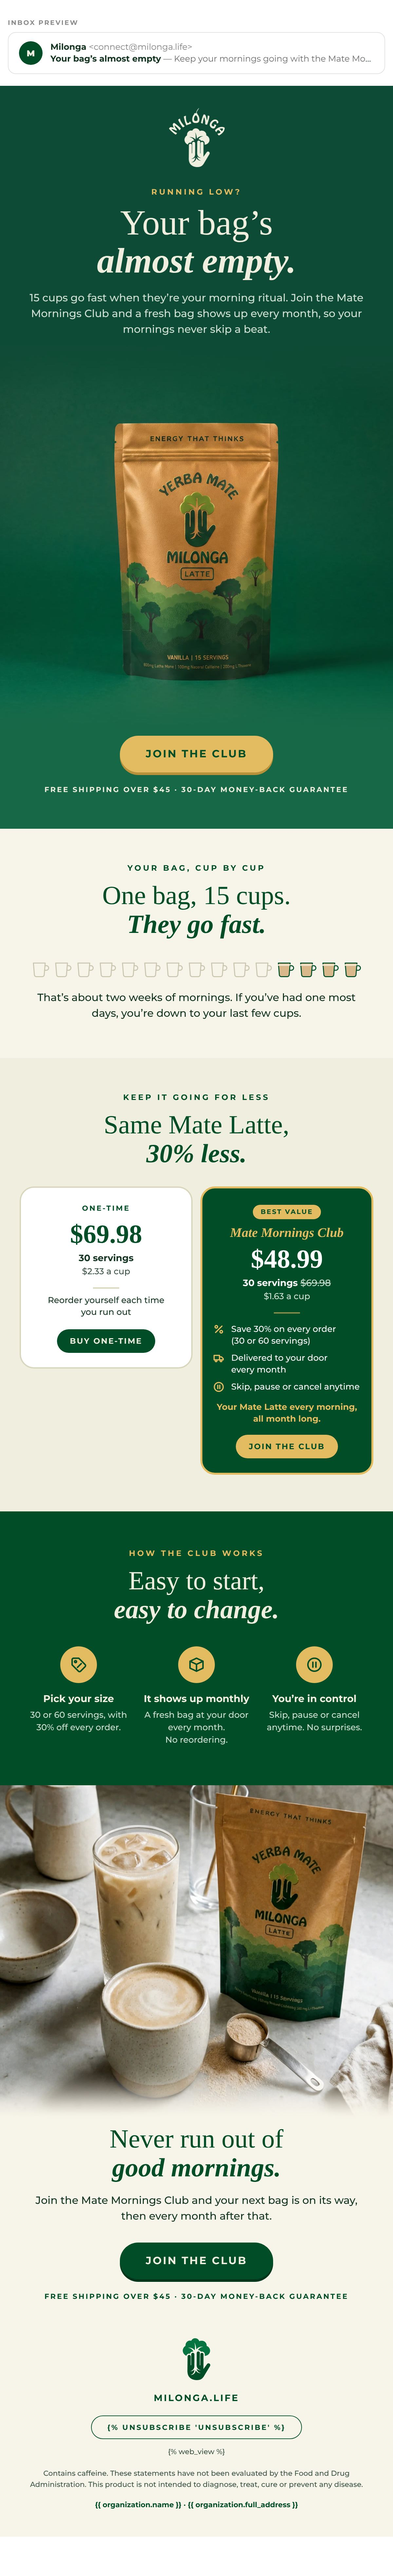
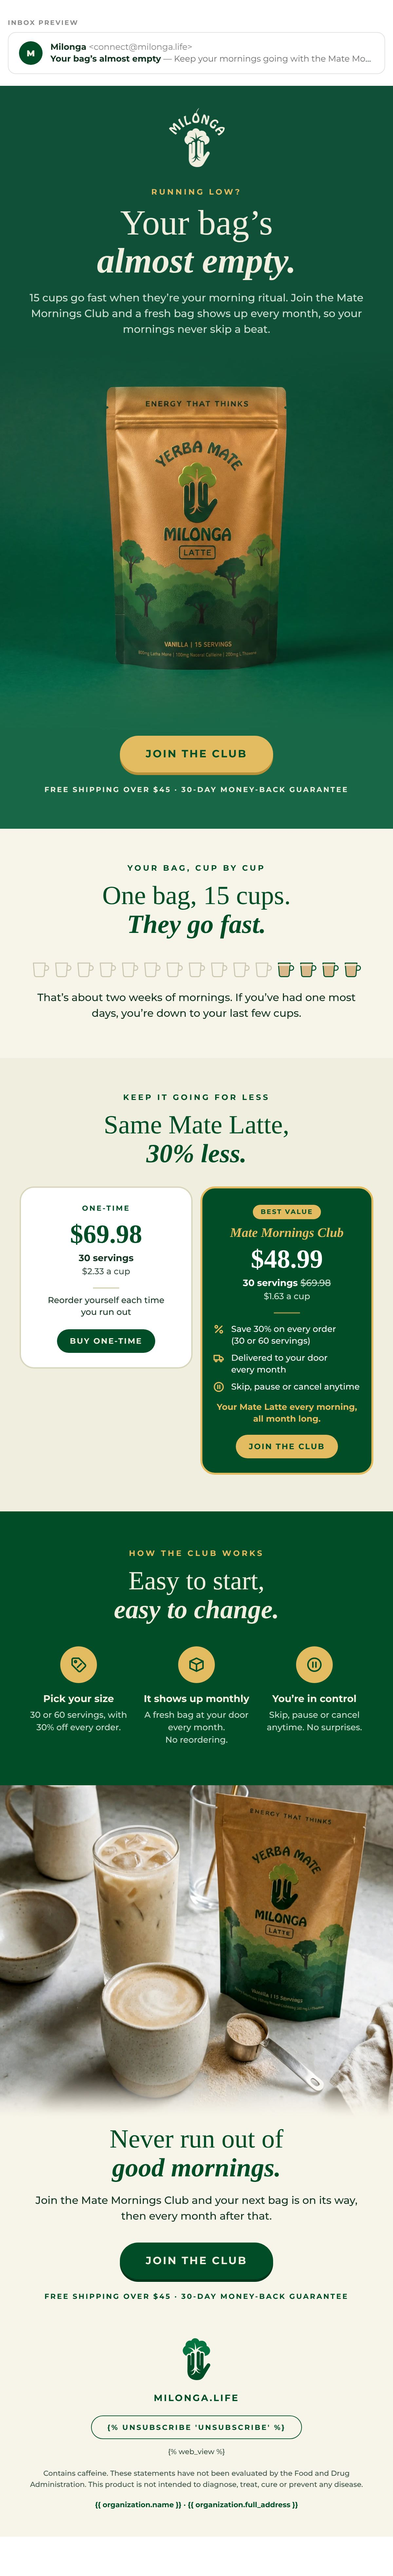
Post-purchase E3: hosted images, paste-ready HTML, renders, README
Claude-Session: https://claude.ai/code/session_01NhEtXPnfeCJfN73SqBkUZ5

Changed region(s): [[0.2467, 0.1246, 0.8017, 0.2804]]

diff --git a/email-ds/exports/klaviyo/pp1-e3/pp1-e3.html b/email-ds/exports/klaviyo/pp1-e3/pp1-e3.html
@@ -1,0 +1,190 @@
+<!doctype html>
+<html lang="en">
+<head>
+<meta charset="utf-8">
+<meta name="viewport" content="width=device-width, initial-scale=1">
+<meta name="x-apple-disable-message-reformatting">
+<title>Your bag’s almost empty</title>
+<!--
+  POST-PURCHASE · ONE-TIME MATE LATTE BUYERS · EMAIL 3 · "Your bag’s almost empty"
+  Preview text: Keep your mornings going with the Mate Mornings Club. Save 30%, skip or pause anytime.
+  Send: day 11 after their first Mate Latte order; exits when they start a subscription.
+  GENERATED by scripts/make-pp1-e3.mjs. Edit the script, not this file.
+-->
+<style>
+  @import url('https://fonts.googleapis.com/css2?family=Montserrat:wght@500;700&display=swap');
+  table { border-collapse:collapse; }
+  img { -ms-interpolation-mode:bicubic; }
+  a { color:inherit; }
+  .unsub-pill a { color:#004D27 !important; text-decoration:none !important; }
+  .web-view-line a { color:#3B5344 !important; }
+  @media only screen and (max-width:480px) {
+    .wrap { width:100% !important; }
+    .pad { padding-left:24px !important; padding-right:24px !important; }
+    .pad-photo { padding-left:16px !important; padding-right:16px !important; }
+    .full { width:100% !important; height:auto !important; }
+    .hero-logo { width:68px !important; height:72px !important; }
+    .h-hero { font-size:44px !important; line-height:46px !important; }
+    .h-sec { font-size:32px !important; line-height:36px !important; }
+    .lead { font-size:15px !important; line-height:23px !important; }
+    .cups { width:100% !important; height:auto !important; }
+    .cmp-l { padding-right:4px !important; }
+    .cmp-r { padding-left:4px !important; }
+    .cmp-card { padding:18px 10px 18px !important; }
+    .cmp-price { font-size:32px !important; line-height:34px !important; }
+    .cmp-text { font-size:12px !important; line-height:17px !important; }
+    .club-ico { width:16px !important; padding-right:6px !important; }
+    .how { padding:0 4px !important; }
+    .how-img { width:48px !important; height:48px !important; }
+    .how-t { font-size:13px !important; line-height:17px !important; }
+    .how-d { font-size:11.5px !important; line-height:16px !important; }
+    .pill a { padding:10px 14px !important; font-size:11px !important; letter-spacing:1px !important; }
+    .btn { padding:18px 26px !important; font-size:15px !important; letter-spacing:1.2px !important; }
+  }
+  @media (prefers-color-scheme: dark) {
+    .bg-white { background-color:#FFFFFF !important; }
+    .bg-hero-top { background-color:#104F38 !important; }
+    .bg-hero { background-color:#186847 !important; }
+    .bg-cream { background-color:#F7F4EA !important; }
+    .bg-page { background-color:#F0EFDF !important; }
+    .bg-forest { background-color:#004D27 !important; }
+  }
+</style>
+</head>
+<body style="margin:0;padding:0;background-color:#FFFFFF;">
+<table role="presentation" width="100%" cellpadding="0" cellspacing="0" border="0" bgcolor="#FFFFFF" class="bg-white" style="background-color:#FFFFFF;">
+<tr><td align="center">
+<table role="presentation" class="wrap" width="600" cellpadding="0" cellspacing="0" border="0" style="width:600px;max-width:600px;table-layout:fixed;">
+
+<!-- ── 1 · RUNNING LOW? The pouch on green: the photo's top and bottom fade
+     into the flat greens of the title row above and the button row below ── -->
+<tr><td class="pad bg-hero-top" align="center" bgcolor="#104F38" style="background-color:#104F38;padding:34px 40px 8px;font-family:'Montserrat','Helvetica Neue',Helvetica,Arial,sans-serif;">
+<a href="https://milonga.life/?utm_source=klaviyo&amp;utm_medium=email&amp;utm_campaign=post_purchase_mate_latte&amp;utm_content=pp3_logo" target="_blank" style="display:block;"><img class="hero-logo" src="https://cdn.klaviyomail.com/company/TwvSnK/images/c267d1bd-4e34-4ee1-b901-eac7bc60b87d.png" width="85" height="90" alt="Milonga" style="display:block;margin:0 auto;width:85px;height:90px;border:0;"></a>
+<div style="padding-top:30px;"><div style="font-size:12px;line-height:16px;font-weight:700;letter-spacing:3px;text-transform:uppercase;color:#E3BC62;">Running low?</div></div>
+<div class="h-hero" style="padding-top:10px;font-family:'Times New Roman',Times,Georgia,serif;font-size:54px;line-height:58px;font-weight:400;color:#F0EFDF;">Your bag&rsquo;s</div>
+<div class="h-hero" style="font-family:'Times New Roman',Times,Georgia,serif;font-size:54px;line-height:58px;font-weight:700;font-style:italic;color:#F0EFDF;">almost empty.</div>
+<div class="lead" style="padding-top:16px;font-size:16px;line-height:24px;font-weight:500;color:#CFE0D4;">15 cups go fast when they&rsquo;re your morning ritual. Join the Mate Mornings Club and a fresh bag shows up every month, so your mornings <span style="white-space:nowrap;">never skip a beat.</span></div>
+</td></tr>
+<tr><td class="bg-hero-top" bgcolor="#104F38" style="background-color:#104F38;padding:0;font-size:0;line-height:0;"><a href="https://milonga.life/products/the-original-mate-latte?utm_source=klaviyo&amp;utm_medium=email&amp;utm_campaign=post_purchase_mate_latte&amp;utm_content=pp3_hero_photo" target="_blank"><img class="full" src="https://cdn.klaviyomail.com/company/TwvSnK/images/f698c772-5783-4bb6-bc98-c63cbfb698ec.jpeg" width="600" height="600" alt="The Mate Latte pouch on deep green" style="display:block;width:600px;height:600px;border:0;"></a></td></tr>
+<tr><td class="pad bg-hero" align="center" bgcolor="#186847" style="background-color:#186847;padding:0 40px 52px;font-family:'Montserrat','Helvetica Neue',Helvetica,Arial,sans-serif;">
+<!--[if mso]>
+<v:roundrect xmlns:v="urn:schemas-microsoft-com:vml" xmlns:w="urn:schemas-microsoft-com:office:word" href="https://milonga.life/products/the-original-mate-latte?utm_source=klaviyo&amp;utm_medium=email&amp;utm_campaign=post_purchase_mate_latte&amp;utm_content=pp3_hero_button" style="height:56px;v-text-anchor:middle;width:280px;" arcsize="50%" stroke="f" fillcolor="#E3BC62"><w:anchorlock/><center style="color:#004D27;font-family:Arial,sans-serif;font-size:16px;font-weight:bold;letter-spacing:2px;">Join the club</center></v:roundrect>
+<![endif]--><!--[if !mso]><!-- --><a href="https://milonga.life/products/the-original-mate-latte?utm_source=klaviyo&amp;utm_medium=email&amp;utm_campaign=post_purchase_mate_latte&amp;utm_content=pp3_hero_button" target="_blank" class="btn" style="display:inline-block;background-color:#E3BC62;border-radius:999px;padding:20px 40px;font-family:'Montserrat','Helvetica Neue',Helvetica,Arial,sans-serif;font-size:16px;line-height:16px;font-weight:700;letter-spacing:2px;text-transform:uppercase;white-space:nowrap;color:#004D27;text-decoration:none;box-shadow:0 4px 0 #B8913A;">Join the club</a><!--<![endif]-->
+<div style="padding-top:18px;font-size:11px;line-height:16px;font-weight:700;letter-spacing:2px;text-transform:uppercase;color:#F0EFDF;"><span style="white-space:nowrap;">Free shipping over $45</span> &middot; <span style="white-space:nowrap;">30-day money-back guarantee</span></div>
+</td></tr>
+
+<!-- ── 2 · ONE BAG, 15 CUPS: the cups already had, and the last few ── -->
+<tr><td class="pad bg-cream" align="center" bgcolor="#F7F4EA" style="background-color:#F7F4EA;padding:52px 40px 0;font-family:'Montserrat','Helvetica Neue',Helvetica,Arial,sans-serif;">
+<div style="font-size:12px;line-height:16px;font-weight:700;letter-spacing:3px;text-transform:uppercase;color:#004D27;">Your bag, cup by cup</div>
+<div class="h-sec" style="padding-top:12px;font-family:'Times New Roman',Times,Georgia,serif;font-size:40px;line-height:44px;font-weight:400;color:#004D27;">One bag, 15 cups.</div>
+<div class="h-sec" style="font-family:'Times New Roman',Times,Georgia,serif;font-size:40px;line-height:44px;font-weight:700;font-style:italic;color:#004D27;">They go fast.</div>
+</td></tr>
+<tr><td class="pad bg-cream" align="center" bgcolor="#F7F4EA" style="background-color:#F7F4EA;padding:30px 48px 0;font-family:'Montserrat','Helvetica Neue',Helvetica,Arial,sans-serif;">
+<img class="cups" src="https://cdn.klaviyomail.com/company/TwvSnK/images/0c6391db-4f7f-41f2-9ebf-ce09d957aef5.png" width="504" height="32" alt="Fifteen cups: most of them already had, the last four still full" style="display:block;margin:0 auto;width:504px;height:32px;border:0;">
+</td></tr>
+<tr><td class="pad bg-cream" align="center" bgcolor="#F7F4EA" style="background-color:#F7F4EA;padding:0 40px 56px;font-family:'Montserrat','Helvetica Neue',Helvetica,Arial,sans-serif;">
+<div class="lead" style="padding-top:16px;font-size:16px;line-height:24px;font-weight:500;color:#12331F;">That&rsquo;s about two weeks of mornings. If you&rsquo;ve had one most days, you&rsquo;re down to <span style="white-space:nowrap;">your last few cups.</span></div>
+</td></tr>
+
+<!-- ── 3 · ONE-TIME OR THE CLUB, SIDE BY SIDE (the cards from cart E1) ── -->
+<tr><td class="pad bg-page" align="center" bgcolor="#F0EFDF" style="background-color:#F0EFDF;padding:52px 40px 0;font-family:'Montserrat','Helvetica Neue',Helvetica,Arial,sans-serif;">
+<div style="font-size:12px;line-height:16px;font-weight:700;letter-spacing:3px;text-transform:uppercase;color:#004D27;">Keep it going for less</div>
+<div class="h-sec" style="padding-top:12px;font-family:'Times New Roman',Times,Georgia,serif;font-size:40px;line-height:44px;font-weight:400;color:#004D27;">Same Mate Latte,</div>
+<div class="h-sec" style="font-family:'Times New Roman',Times,Georgia,serif;font-size:40px;line-height:44px;font-weight:700;font-style:italic;color:#004D27;">30% less.</div>
+</td></tr>
+<tr><td class="pad-photo bg-page" bgcolor="#F0EFDF" style="background-color:#F0EFDF;padding:28px 30px 56px;">
+<table role="presentation" width="100%" cellpadding="0" cellspacing="0" border="0" style="border-collapse:separate;"><tr>
+<td class="cmp-l" width="50%" valign="top" style="width:50%;padding:0 6px 0 0;">
+<table role="presentation" width="100%" cellpadding="0" cellspacing="0" border="0" style="border-collapse:separate;"><tr>
+<td class="cmp-card" align="center" valign="top" bgcolor="#FFFFFF" style="background-color:#FFFFFF;border:2px solid #D9D6BE;border-radius:22px; padding:24px 16px 22px;font-family:'Montserrat','Helvetica Neue',Helvetica,Arial,sans-serif;">
+<div style="font-size:11px;line-height:14px;font-weight:700;letter-spacing:2px;text-transform:uppercase;color:#004D27;">One-time</div>
+<div class="cmp-price" style="padding-top:12px;font-family:'Times New Roman',Times,Georgia,serif;font-size:40px;line-height:42px;font-weight:700;color:#004D27;">$69.98</div>
+<div class="cmp-text" style="padding-top:6px;font-size:14px;line-height:18px;font-weight:700;color:#12331F;">30 servings</div>
+<div class="cmp-text" style="padding-top:2px;font-size:13px;line-height:18px;font-weight:500;color:#3B5344;">$2.33 a cup</div>
+<div style="margin:16px auto 0;width:40px;border-top:2px solid #D9D6BE;font-size:0;line-height:0;">&nbsp;</div>
+<div class="cmp-text" style="padding-top:8px;font-size:13px;line-height:18px;font-weight:500;color:#12331F;">Reorder yourself each time <span style="white-space:nowrap;">you run out</span></div>
+<div style="padding-top:18px;"><table role="presentation" cellpadding="0" cellspacing="0" border="0" align="center" style="margin:0 auto;border-collapse:separate;"><tr>
+<td class="pill" align="center" bgcolor="#004D27" style="background-color:#004D27;border-radius:999px;"><a href="https://milonga.life/products/the-original-mate-latte?utm_source=klaviyo&amp;utm_medium=email&amp;utm_campaign=post_purchase_mate_latte&amp;utm_content=pp3_onetime_link" target="_blank" style="display:inline-block;padding:11px 20px;font-family:'Montserrat','Helvetica Neue',Helvetica,Arial,sans-serif;font-size:12px;line-height:14px;font-weight:700;letter-spacing:1.5px;text-transform:uppercase;white-space:nowrap;color:#F0EFDF;text-decoration:none;">Buy one-time</a></td>
+</tr></table></div>
+</td></tr></table>
+</td>
+<td class="cmp-r" width="50%" valign="top" style="width:50%;padding:0 0 0 6px;">
+<table role="presentation" width="100%" cellpadding="0" cellspacing="0" border="0" style="border-collapse:separate;"><tr>
+<td class="cmp-card" align="center" valign="top" bgcolor="#004D27" style="background-color:#004D27;border:3px solid #E3BC62;border-radius:22px; padding:24px 16px 22px;font-family:'Montserrat','Helvetica Neue',Helvetica,Arial,sans-serif;">
+<div style="display:inline-block;background-color:#E3BC62;border-radius:999px;padding:5px 12px;font-size:10px;line-height:12px;font-weight:700;letter-spacing:1.5px;text-transform:uppercase;color:#004D27;">Best value</div>
+<div style="padding-top:10px;font-family:'Times New Roman',Times,Georgia,serif;font-size:20px;line-height:22px;font-weight:700;font-style:italic;color:#E3BC62;">Mate Mornings Club</div>
+<div class="cmp-price" style="padding-top:8px;font-family:'Times New Roman',Times,Georgia,serif;font-size:40px;line-height:42px;font-weight:700;color:#FFFFFF;">$48.99</div>
+<div class="cmp-text" style="padding-top:6px;font-size:14px;line-height:18px;font-weight:700;color:#FFFFFF;">30 servings <span style="font-weight:500;color:#CFE0D4;text-decoration:line-through;">$69.98</span></div>
+<div class="cmp-text" style="padding-top:2px;font-size:13px;line-height:18px;font-weight:500;color:#CFE0D4;">$1.63 a cup</div>
+<div style="margin:16px auto 6px;width:40px;border-top:2px solid rgba(227,188,98,.6);font-size:0;line-height:0;">&nbsp;</div>
+<table role="presentation" cellpadding="0" cellspacing="0" border="0" align="center" style="margin:0 auto;">
+<tr><td class="club-ico" width="20" valign="top" style="width:20px;padding:9px 8px 0 0;"><img src="https://cdn.klaviyomail.com/company/TwvSnK/images/2058c0f3-73b7-4672-8199-a8d73471d03b.png" width="18" height="18" alt="" role="presentation" style="display:block;width:18px;height:18px;border:0;"></td>
+<td class="cmp-text" valign="top" style="padding:8px 0 0;font-family:'Montserrat','Helvetica Neue',Helvetica,Arial,sans-serif;font-size:13px;line-height:18px;font-weight:500;color:#FFFFFF;text-align:left;">Save 30% on every order <span style="white-space:nowrap;">(30 or 60 servings)</span></td></tr>
+<tr><td class="club-ico" width="20" valign="top" style="width:20px;padding:9px 8px 0 0;"><img src="https://cdn.klaviyomail.com/company/TwvSnK/images/98d0b468-317e-49a6-81ae-ac18b40a2f35.png" width="18" height="18" alt="" role="presentation" style="display:block;width:18px;height:18px;border:0;"></td>
+<td class="cmp-text" valign="top" style="padding:8px 0 0;font-family:'Montserrat','Helvetica Neue',Helvetica,Arial,sans-serif;font-size:13px;line-height:18px;font-weight:500;color:#FFFFFF;text-align:left;">Delivered to your door <span style="white-space:nowrap;">every month</span></td></tr>
+<tr><td class="club-ico" width="20" valign="top" style="width:20px;padding:9px 8px 0 0;"><img src="https://cdn.klaviyomail.com/company/TwvSnK/images/91e2b48f-9822-4394-9e33-88182ba8f17c.png" width="18" height="18" alt="" role="presentation" style="display:block;width:18px;height:18px;border:0;"></td>
+<td class="cmp-text" valign="top" style="padding:8px 0 0;font-family:'Montserrat','Helvetica Neue',Helvetica,Arial,sans-serif;font-size:13px;line-height:18px;font-weight:500;color:#FFFFFF;text-align:left;">Skip, pause or cancel anytime</td></tr>
+</table>
+<div class="cmp-text" style="padding-top:12px;font-size:13px;line-height:18px;font-weight:700;color:#E3BC62;">Your Mate Latte every morning, <span style="white-space:nowrap;">all month long.</span></div>
+<div style="padding-top:16px;"><table role="presentation" cellpadding="0" cellspacing="0" border="0" align="center" style="margin:0 auto;border-collapse:separate;"><tr>
+<td class="pill" align="center" bgcolor="#E3BC62" style="background-color:#E3BC62;border-radius:999px;"><a href="https://milonga.life/products/the-original-mate-latte?utm_source=klaviyo&amp;utm_medium=email&amp;utm_campaign=post_purchase_mate_latte&amp;utm_content=pp3_club_card" target="_blank" style="display:inline-block;padding:11px 20px;font-family:'Montserrat','Helvetica Neue',Helvetica,Arial,sans-serif;font-size:12px;line-height:14px;font-weight:700;letter-spacing:1.5px;text-transform:uppercase;white-space:nowrap;color:#004D27;text-decoration:none;">Join the club</a></td>
+</tr></table></div>
+</td></tr></table>
+</td>
+</tr></table>
+</td></tr>
+
+<!-- ── 4 · HOW THE CLUB WORKS ─────────────────────────────────────── -->
+<tr><td class="pad bg-forest" align="center" bgcolor="#004D27" style="background-color:#004D27;padding:56px 40px 0;font-family:'Montserrat','Helvetica Neue',Helvetica,Arial,sans-serif;">
+<div style="font-size:12px;line-height:16px;font-weight:700;letter-spacing:3px;text-transform:uppercase;color:#E3BC62;">How the club works</div>
+<div class="h-sec" style="padding-top:12px;font-family:'Times New Roman',Times,Georgia,serif;font-size:40px;line-height:44px;font-weight:400;color:#F0EFDF;">Easy to start,</div>
+<div class="h-sec" style="font-family:'Times New Roman',Times,Georgia,serif;font-size:40px;line-height:44px;font-weight:700;font-style:italic;color:#F0EFDF;">easy to change.</div>
+</td></tr>
+<tr><td class="pad-photo bg-forest" bgcolor="#004D27" style="background-color:#004D27;padding:34px 30px 60px;">
+<table role="presentation" width="100%" cellpadding="0" cellspacing="0" border="0" style="table-layout:fixed;"><tr>
+<td class="how" width="33%" align="center" valign="top" style="width:33%;padding:0 8px;font-family:'Montserrat','Helvetica Neue',Helvetica,Arial,sans-serif;">
+<img class="how-img" src="https://cdn.klaviyomail.com/company/TwvSnK/images/90a98d45-767c-4fe3-ae32-bf9385659c84.png" width="56" height="56" alt="" role="presentation" style="display:block;margin:0 auto;width:56px;height:56px;border:0;">
+<div class="how-t" style="padding-top:14px;font-size:15px;line-height:19px;font-weight:700;color:#F0EFDF;">Pick your size</div>
+<div class="how-d" style="padding-top:6px;font-size:13px;line-height:19px;font-weight:500;color:#CFE0D4;">30 or 60 servings, with 30% off <span style="white-space:nowrap;">every order.</span></div>
+</td>
+<td class="how" width="33%" align="center" valign="top" style="width:33%;padding:0 8px;font-family:'Montserrat','Helvetica Neue',Helvetica,Arial,sans-serif;">
+<img class="how-img" src="https://cdn.klaviyomail.com/company/TwvSnK/images/947025d6-4759-475f-a148-56546d6259cc.png" width="56" height="56" alt="" role="presentation" style="display:block;margin:0 auto;width:56px;height:56px;border:0;">
+<div class="how-t" style="padding-top:14px;font-size:15px;line-height:19px;font-weight:700;color:#F0EFDF;">It shows up monthly</div>
+<div class="how-d" style="padding-top:6px;font-size:13px;line-height:19px;font-weight:500;color:#CFE0D4;">A fresh bag at your door every month. <span style="white-space:nowrap;">No reordering.</span></div>
+</td>
+<td class="how" width="33%" align="center" valign="top" style="width:33%;padding:0 8px;font-family:'Montserrat','Helvetica Neue',Helvetica,Arial,sans-serif;">
+<img class="how-img" src="https://cdn.klaviyomail.com/company/TwvSnK/images/67957372-4713-4af7-9a3e-6a009c1c72cd.png" width="56" height="56" alt="" role="presentation" style="display:block;margin:0 auto;width:56px;height:56px;border:0;">
+<div class="how-t" style="padding-top:14px;font-size:15px;line-height:19px;font-weight:700;color:#F0EFDF;">You&rsquo;re in control</div>
+<div class="how-d" style="padding-top:6px;font-size:13px;line-height:19px;font-weight:500;color:#CFE0D4;">Skip, pause or cancel anytime. <span style="white-space:nowrap;">No surprises.</span></div>
+</td>
+</tr></table>
+</td></tr>
+
+<!-- ── 5 · NEVER RUN OUT (the kitchen counter, a nearly empty scoop; the
+     photo's bottom fades into the cream of the text) ── -->
+<tr><td class="bg-cream" bgcolor="#F7F4EA" style="background-color:#F7F4EA;padding:0;font-size:0;line-height:0;"><img class="full" src="https://cdn.klaviyomail.com/company/TwvSnK/images/561e673a-db66-4a87-9f35-aa55325abbc9.jpeg" width="600" height="510" alt="A hot and an iced Mate Latte on a kitchen counter beside the pouch and a nearly empty scoop" style="display:block;width:600px;height:510px;border:0;"></td></tr>
+<tr><td class="pad bg-cream" align="center" bgcolor="#F7F4EA" style="background-color:#F7F4EA;padding:8px 40px 0;font-family:'Montserrat','Helvetica Neue',Helvetica,Arial,sans-serif;">
+<div class="h-sec" style="padding-top:0px;font-family:'Times New Roman',Times,Georgia,serif;font-size:40px;line-height:44px;font-weight:400;color:#004D27;">Never run out of</div>
+<div class="h-sec" style="font-family:'Times New Roman',Times,Georgia,serif;font-size:40px;line-height:44px;font-weight:700;font-style:italic;color:#004D27;">good mornings.</div>
+<div class="lead" style="padding-top:16px;font-size:16px;line-height:24px;font-weight:500;color:#12331F;">Join the Mate Mornings Club and your next bag is on its way, then <span style="white-space:nowrap;">every month after that.</span></div>
+<div style="padding-top:28px;"><!--[if mso]>
+<v:roundrect xmlns:v="urn:schemas-microsoft-com:vml" xmlns:w="urn:schemas-microsoft-com:office:word" href="https://milonga.life/products/the-original-mate-latte?utm_source=klaviyo&amp;utm_medium=email&amp;utm_campaign=post_purchase_mate_latte&amp;utm_content=pp3_final_button" style="height:56px;v-text-anchor:middle;width:280px;" arcsize="50%" stroke="f" fillcolor="#004D27"><w:anchorlock/><center style="color:#F0EFDF;font-family:Arial,sans-serif;font-size:16px;font-weight:bold;letter-spacing:2px;">Join the club</center></v:roundrect>
+<![endif]--><!--[if !mso]><!-- --><a href="https://milonga.life/products/the-original-mate-latte?utm_source=klaviyo&amp;utm_medium=email&amp;utm_campaign=post_purchase_mate_latte&amp;utm_content=pp3_final_button" target="_blank" class="btn" style="display:inline-block;background-color:#004D27;border-radius:999px;padding:20px 40px;font-family:'Montserrat','Helvetica Neue',Helvetica,Arial,sans-serif;font-size:16px;line-height:16px;font-weight:700;letter-spacing:2px;text-transform:uppercase;white-space:nowrap;color:#F0EFDF;text-decoration:none;box-shadow:0 4px 0 #00351B;">Join the club</a><!--<![endif]--></div>
+<div style="padding-top:18px;font-size:11px;line-height:16px;font-weight:700;letter-spacing:2px;text-transform:uppercase;color:#004D27;"><span style="white-space:nowrap;">Free shipping over $45</span> &middot; <span style="white-space:nowrap;">30-day money-back guarantee</span></div>
+</td></tr>
+
+<!-- ── FOOTER ─────────────────────────────────────────────────────── -->
+<tr><td class="bg-cream" align="center" bgcolor="#F7F4EA" style="background-color:#F7F4EA;padding:56px 30px 40px;font-family:'Montserrat','Helvetica Neue',Helvetica,Arial,sans-serif;color:#004D27;">
+<a href="https://milonga.life/?utm_source=klaviyo&amp;utm_medium=email&amp;utm_campaign=post_purchase_mate_latte&amp;utm_content=pp3_logo" target="_blank"><img src="https://cdn.klaviyomail.com/company/TwvSnK/images/0e781634-6907-42f6-b101-3c2c15371a99.png" width="61" height="64" alt="Milonga" style="display:block;margin:0 auto;height:64px;width:auto;border:0;"></a>
+<div style="padding-top:18px;font-size:14px;font-weight:700;letter-spacing:2px;text-transform:uppercase;"><a href="https://milonga.life/?utm_source=klaviyo&amp;utm_medium=email&amp;utm_campaign=post_purchase_mate_latte&amp;utm_content=pp3_logo" target="_blank" style="color:#004D27;text-decoration:none;">milonga.life</a></div>
+<table role="presentation" cellpadding="0" cellspacing="0" border="0" align="center" style="margin:18px auto 0;border-collapse:separate;"><tr><td class="unsub-pill" align="center" style="border:1.5px solid #004D27;border-radius:999px;padding:10px 24px;font-family:'Montserrat','Helvetica Neue',Helvetica,Arial,sans-serif;font-size:11px;font-weight:700;letter-spacing:2px;text-transform:uppercase;color:#004D27;">{% unsubscribe 'Unsubscribe' %}</td></tr></table>
+<div class="web-view-line" style="padding-top:12px;font-size:11px;font-weight:500;color:#3B5344;">{% web_view %}</div>
+<div style="padding-top:18px;font-size:11px;line-height:1.55;font-weight:500;color:#3B5344;">Contains caffeine. These statements have not been evaluated by the Food and Drug Administration. This product is not intended to diagnose, treat, cure or prevent any disease.</div>
+<div style="padding-top:14px;font-size:11px;line-height:1.55;font-weight:700;color:#004D27;">{{ organization.name }} &middot; {{ organization.full_address }}</div>
+</td></tr>
+
+</table>
+</td></tr>
+</table>
+</body>
+</html>
